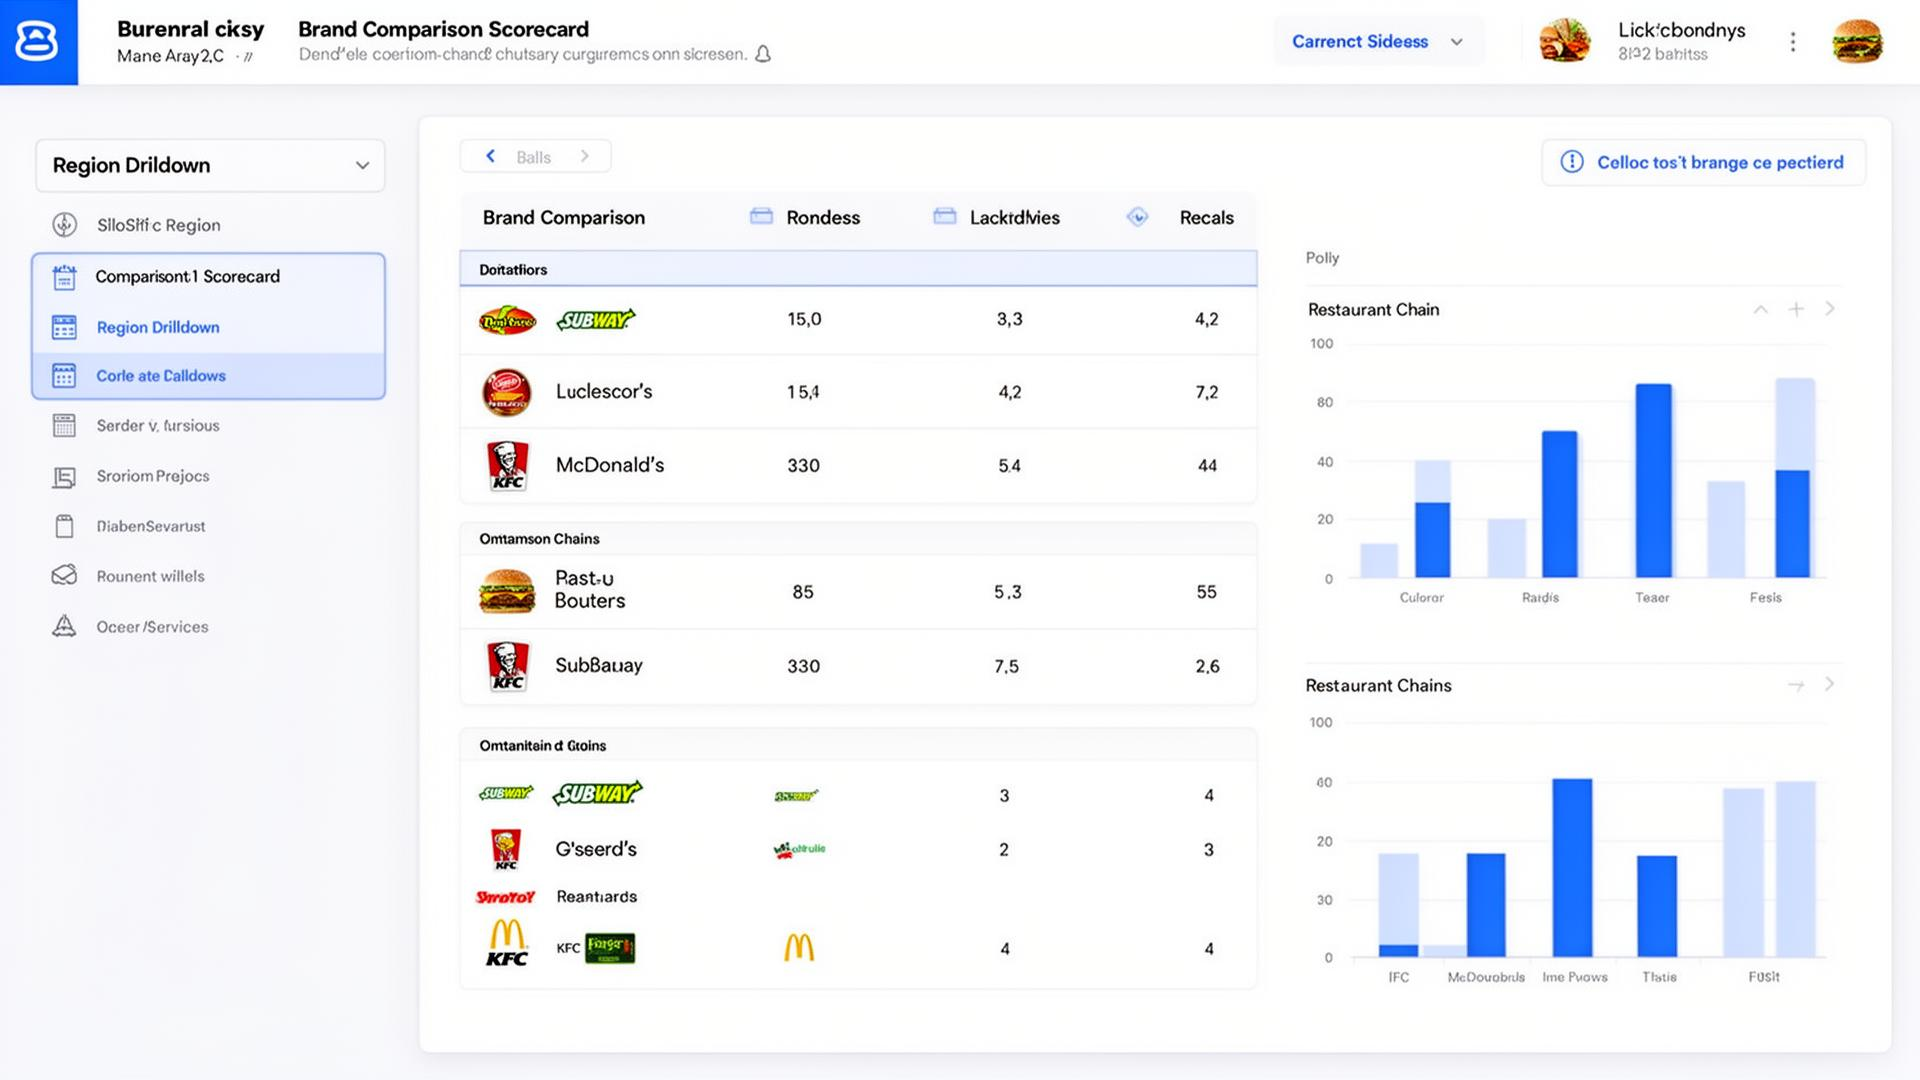
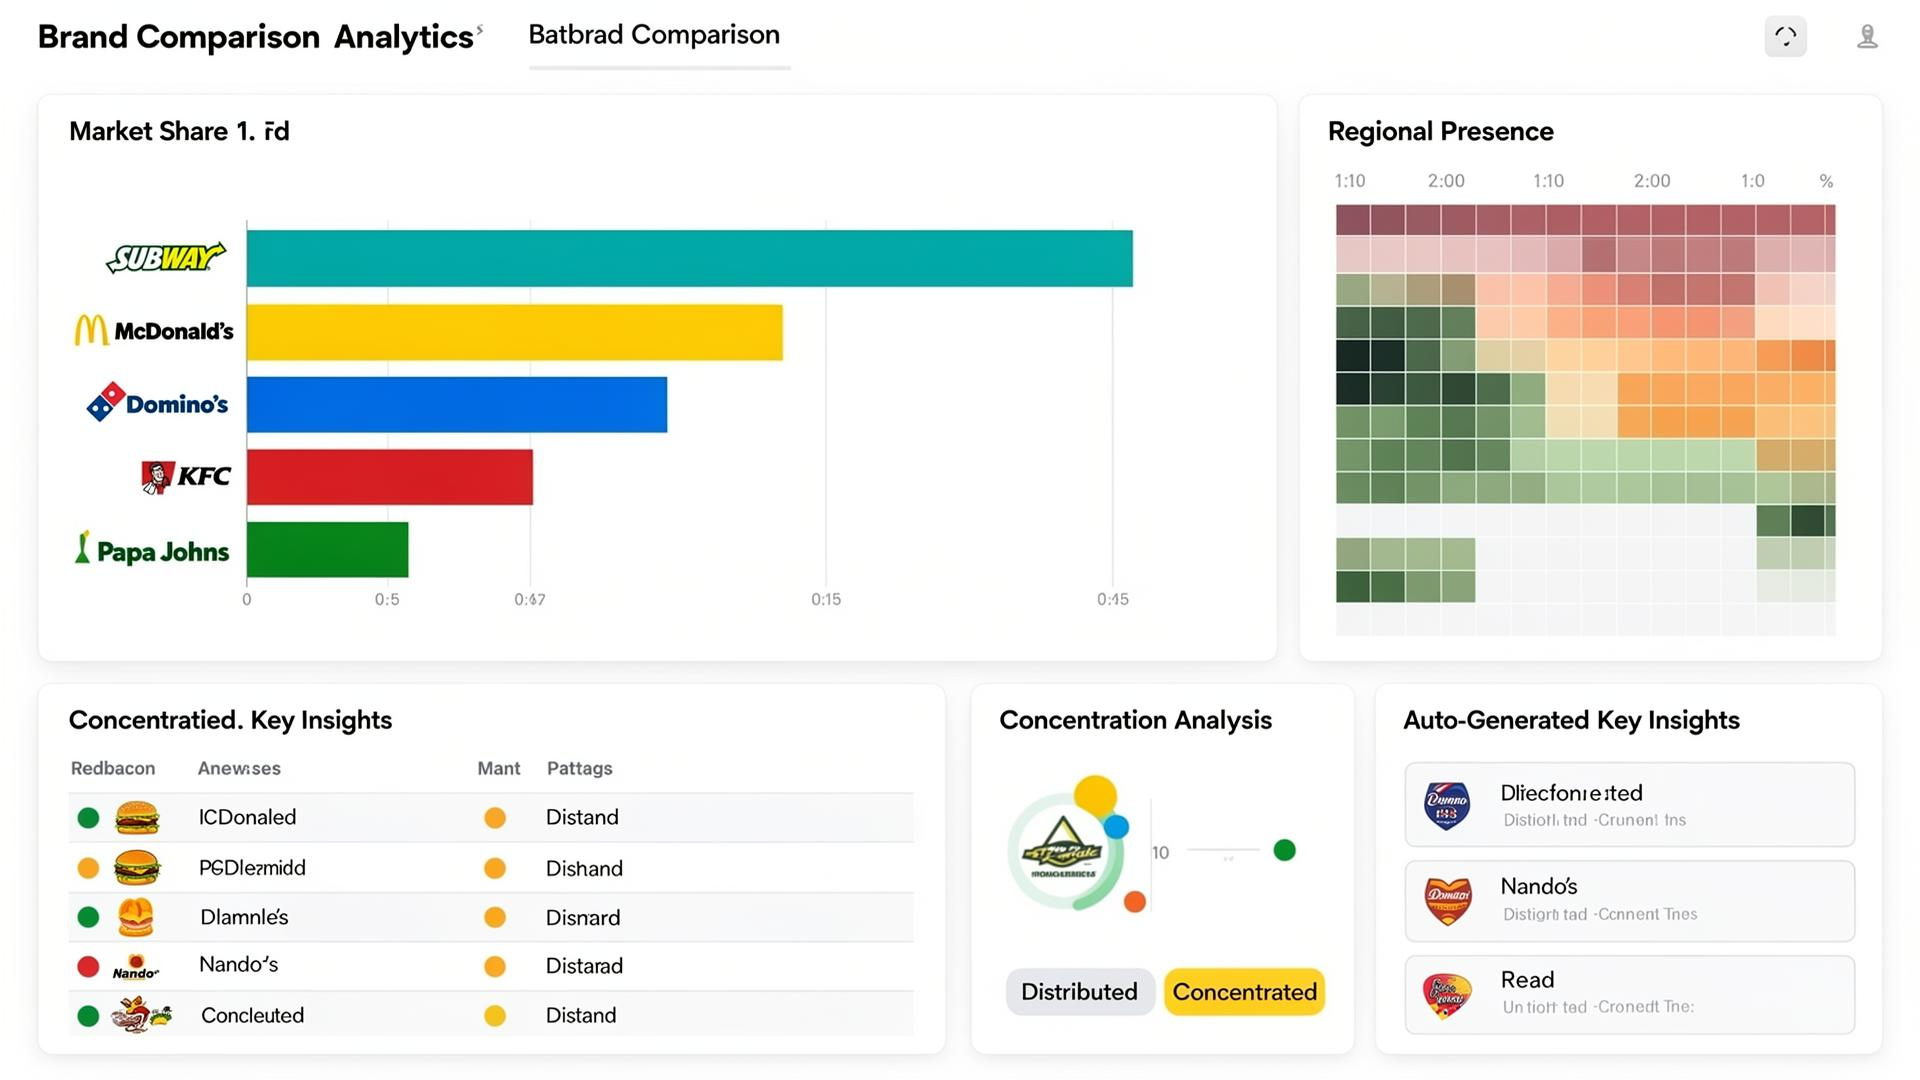
Changes

diff --git a/public/prototype/app.js b/public/prototype/app.js
@@ -735,26 +735,114 @@ function flyToCityOrData(cityName, region) {
 
 function refreshCompareTab() {
   const brands = state.metrics.brands;
-  const rows = brands.map(b => {
+  const selected = selectedArr();
+  const totalAll = selected.reduce((s, b) => s + (state.metrics.brand_totals[b] || 0), 0);
+
+  const rows = selected.map(b => {
     const total = state.metrics.brand_totals[b] || 0;
     const london = (state.metrics.region_brand_counts["London"] || {})[b] || 0;
-    const shares = state.metrics.regions.map(r => {
+    const regionShares = state.metrics.regions.map(r => {
       const c = (state.metrics.region_brand_counts[r] || {})[b] || 0;
-      return { region: r.replace(" (England)", ""), count: c, share: total ? c / total : 0 };
+      return { region: r, label: r.replace(" (England)", ""), count: c, share: total ? c / total : 0 };
     }).sort((a, b) => b.count - a.count);
-    return { brand: b, total, londonShare: total ? london / total : 0, top1: shares[0] };
+    // Concentration: how much of their total is in top 3 regions
+    const top3Share = regionShares.slice(0, 3).reduce((s, r) => s + r.count, 0) / (total || 1);
+    const regionCounts = {};
+    state.metrics.regions.forEach(r => { regionCounts[r] = (state.metrics.region_brand_counts[r] || {})[b] || 0; });
+    return { brand: b, total, share: totalAll ? total / totalAll : 0, londonShare: total ? london / total : 0, top1: regionShares[0], top3Share, regionCounts, regionShares };
   }).sort((a, b) => b.total - a.total);
 
+  // ── KPIs ──
+  const leader = rows[0];
+  const smallest = rows[rows.length - 1];
+  document.getElementById("compareKpis").innerHTML = `
+    <div class="rp-kpi-card"><div class="rp-kpi-value">${fmtInt(totalAll)}</div><div class="rp-kpi-label">Total Locations</div></div>
+    <div class="rp-kpi-card"><div class="rp-kpi-value">${selected.length}</div><div class="rp-kpi-label">Brands Compared</div></div>
+    <div class="rp-kpi-card"><div class="rp-kpi-value">${leader ? leader.brand.split("'")[0] : '—'}</div><div class="rp-kpi-label">Market Leader</div></div>
+    <div class="rp-kpi-card"><div class="rp-kpi-value">${leader ? fmtPct(leader.share) : '—'}</div><div class="rp-kpi-label">Leader Share</div></div>
+  `;
+
+  // ── Market Share Bars ──
+  const maxTotal = Math.max(...rows.map(r => r.total));
+  document.getElementById("compareShareBars").innerHTML = rows.map(r => {
+    const pct = maxTotal > 0 ? (r.total / maxTotal * 100) : 0;
+    return `<div class="share-bar-row">
+      <span class="share-bar-label">${r.brand}</span>
+      <div class="share-bar-track">
+        <div class="share-bar-fill" style="width:${pct}%;background:${BRAND_COLORS[r.brand] || '#3B5BFE'}">
+          <span class="share-bar-value">${fmtPct(r.share)}</span>
+        </div>
+      </div>
+      <span class="share-bar-count">${fmtInt(r.total)}</span>
+    </div>`;
+  }).join("");
+
+  // ── Leaderboard Table ──
   document.getElementById("compareTable").innerHTML = `
-    <tr><th>#</th><th>Brand</th><th class="num">Total</th><th class="num">London %</th><th>Top Region</th></tr>
+    <tr><th>#</th><th>Brand</th><th class="num">Total</th><th class="num">Share</th><th class="num">London %</th><th>Strongest</th></tr>
     ${rows.map((r, i) => `<tr>
-      <td style="color:var(--muted)">${i + 1}</td>
+      <td style="color:var(--muted);font-weight:700">${i + 1}</td>
       <td><div class="brand-dot-cell"><span class="brand-dot" style="background:${BRAND_COLORS[r.brand]||'#3B5BFE'};width:8px;height:8px"></span><strong>${r.brand}</strong></div></td>
       <td class="num">${fmtInt(r.total)}</td>
+      <td class="num">${fmtPct(r.share)}</td>
       <td class="num">${fmtPct(r.londonShare)}</td>
-      <td style="font-size:11px;color:var(--muted)">${r.top1.region} (${fmtPct(r.top1.share)})</td>
+      <td style="font-size:11px;color:var(--muted)">${r.top1.label} (${fmtPct(r.top1.share)})</td>
     </tr>`).join("")}
   `;
+
+  // ── Regional Presence Matrix ──
+  const shortRegions = state.metrics.regions.map(r => r.replace(" (England)", "").replace("Yorkshire and The Humber", "Yorks"));
+  const matrixRows = rows.map(r => {
+    const cells = state.metrics.regions.map(reg => {
+      const c = r.regionCounts[reg] || 0;
+      const regTotal = state.metrics.region_totals[reg] || 1;
+      const intensity = c / regTotal; // share in this region
+      const bg = intensity > 0.25 ? 'rgba(67,160,71,0.2)' : intensity > 0.15 ? 'rgba(255,152,0,0.15)' : intensity > 0.05 ? 'rgba(59,91,254,0.1)' : 'transparent';
+      const color = intensity > 0.25 ? '#2E7D32' : intensity > 0.15 ? '#E65100' : 'var(--text)';
+      return `<td><span class="cell-heat" style="background:${bg};color:${color}">${c}</span></td>`;
+    });
+    return `<tr><td><div class="brand-dot-cell"><span class="brand-dot" style="background:${BRAND_COLORS[r.brand]||'#3B5BFE'};width:6px;height:6px"></span>${r.brand}</div></td>${cells.join("")}</tr>`;
+  });
+
+  document.getElementById("compareMatrix").innerHTML = `
+    <table>
+      <tr><th></th>${shortRegions.map(r => `<th>${r}</th>`).join("")}</tr>
+      ${matrixRows.join("")}
+    </table>
+  `;
+
+  // ── Concentration Analysis ──
+  document.getElementById("compareConcentration").innerHTML = `
+    <tr><th>Brand</th><th class="num">Top 3 Regions %</th><th class="num">London Lean</th><th>Profile</th></tr>
+    ${rows.map(r => {
+      const profile = r.top3Share > 0.55 ? 'Concentrated' : r.top3Share > 0.45 ? 'Balanced' : 'Distributed';
+      const profileColor = profile === 'Concentrated' ? '#E53935' : profile === 'Balanced' ? '#FF9800' : '#43A047';
+      return `<tr>
+        <td><div class="brand-dot-cell"><span class="brand-dot" style="background:${BRAND_COLORS[r.brand]||'#3B5BFE'};width:8px;height:8px"></span>${r.brand}</div></td>
+        <td class="num">${fmtPct(r.top3Share)}</td>
+        <td class="num">${r.londonShare > 0.2 ? '🔥 High' : r.londonShare > 0.12 ? '⚡ Medium' : '✅ Low'}</td>
+        <td><span style="color:${profileColor};font-weight:700;font-size:11px">${profile}</span></td>
+      </tr>`;
+    }).join("")}
+  `;
+
+  // ── Key Insights (auto-generated) ──
+  const insights = [];
+  if (leader) {
+    insights.push(`<div class="insight-card"><span class="insight-icon">👑</span><strong>${leader.brand}</strong> leads with ${fmtInt(leader.total)} locations (${fmtPct(leader.share)} market share), strongest in ${leader.top1.label}.</div>`);
+  }
+  if (smallest && rows.length > 1) {
+    insights.push(`<div class="insight-card"><span class="insight-icon">📉</span><strong>${smallest.brand}</strong> has the smallest footprint at ${fmtInt(smallest.total)} locations — potential growth opportunity or niche strategy.</div>`);
+  }
+  const highLondon = rows.filter(r => r.londonShare > 0.18);
+  if (highLondon.length > 0) {
+    insights.push(`<div class="insight-card"><span class="insight-icon">🏙</span>${highLondon.map(r => `<strong>${r.brand}</strong>`).join(" and ")} ${highLondon.length > 1 ? 'are' : 'is'} heavily concentrated in London (${highLondon.map(r => fmtPct(r.londonShare)).join(", ")}), leaving regional markets open.</div>`);
+  }
+  const distributed = rows.filter(r => r.top3Share < 0.45);
+  if (distributed.length > 0) {
+    insights.push(`<div class="insight-card"><span class="insight-icon">🌍</span>${distributed.map(r => `<strong>${r.brand}</strong>`).join(" and ")} ${distributed.length > 1 ? 'have' : 'has'} the most evenly distributed presence across all regions.</div>`);
+  }
+  document.getElementById("compareInsights").innerHTML = insights.join("");
 }
 
 function refreshExportInfo() {

diff --git a/src/components/FeaturesSection.tsx b/src/components/FeaturesSection.tsx
@@ -1,8 +1,9 @@
 import { motion } from "framer-motion";
-import { Map, BarChart3, Download } from "lucide-react";
+import { Map, BarChart3, Flame, Lightbulb } from "lucide-react";
 import dashboardPreview from "@/assets/dashboard-preview.jpg";
+import heatmapPreview from "@/assets/heatmap-preview.jpg";
 import brandComparePreview from "@/assets/brand-compare-preview.jpg";
-import exportPreview from "@/assets/export-preview.jpg";
+import guesstimatePreview from "@/assets/export-preview.jpg";
 
 const features = [
   {
@@ -10,27 +11,36 @@ const features = [
     title: "Coverage Map",
     subtitle: "Region & city presence for your competitor set",
     description:
-      "Interactive choropleth maps show density by region. Click any area to drill down into brand mix, top cities, and concentration signals.",
+      "Interactive honeycomb density maps show where brands cluster. Click any region to drill into brand mix, top cities, and store-level dots — zoom in and the hexagons adapt in real time.",
     image: dashboardPreview,
-    alt: "Country Explorer coverage map with region drilldown",
+    alt: "Country Explorer coverage map with honeycomb density grid over England",
+  },
+  {
+    icon: Flame,
+    title: "Competitive Heatmap",
+    subtitle: "See who's winning in every neighbourhood",
+    description:
+      "Toggle heatmap mode to compare your brand against all competitors or a specific rival. Red means they dominate, green means you lead — instantly spot market gaps across the entire country.",
+    image: heatmapPreview,
+    alt: "Competitive heatmap showing McDonald's vs competitors with traffic-light coloring",
   },
   {
     icon: BarChart3,
-    title: "Brand Benchmarking",
-    subtitle: "Compare brands with a consistent scorecard",
+    title: "Brand Comparison",
+    subtitle: "Head-to-head analytics across every dimension",
     description:
-      "Head-to-head comparison of total locations, market share in key cities, top regions, and concentration patterns across your competitive set.",
+      "Market share bars, regional presence matrix, concentration analysis, and auto-generated insights. See which brands are distributed vs concentrated, who dominates London, and where the whitespace is.",
     image: brandComparePreview,
-    alt: "Brand comparison scorecard with analytics",
+    alt: "Brand comparison dashboard with market share bars and regional heatgrid",
   },
   {
-    icon: Download,
-    title: "Actionable Exports",
-    subtitle: "CSV, GeoJSON, and client-ready reports",
+    icon: Lightbulb,
+    title: "Guesstimate Engine",
+    subtitle: "Data-driven expansion advice, powered by real numbers",
     description:
-      "Export filtered locations for your BI tools. Generate shortlists of target cities with low competitor density — ready for your next board meeting.",
-    image: exportPreview,
-    alt: "Data export interface with CSV and GeoJSON options",
+      "Turn on Guesstimate for instant market intelligence: saturation scores, whitespace opportunities scored by city, strongest & weakest regions with gap analysis, and actionable expansion advice — all derived from actual store data.",
+    image: guesstimatePreview,
+    alt: "Guesstimate market insights panel with whitespace opportunities and growth targets",
   },
 ];
 

diff --git a/public/prototype/styles.css b/public/prototype/styles.css
@@ -169,6 +169,27 @@ body { font-family: var(--sans); background: var(--bg); color: var(--text); -web
 .export-info-label { color: var(--muted); font-weight: 500; }
 .rp-footnote { margin-top: 14px; font-size: 11px; color: var(--muted); }
 
+/* ── Compare tab ── */
+.share-bars { display: flex; flex-direction: column; gap: 6px; }
+.share-bar-row { display: flex; align-items: center; gap: 8px; }
+.share-bar-label { font-size: 11px; font-weight: 600; color: var(--text); min-width: 70px; white-space: nowrap; }
+.share-bar-track { flex: 1; height: 20px; background: var(--panel2); border-radius: 4px; overflow: hidden; position: relative; }
+.share-bar-fill { height: 100%; border-radius: 4px; transition: width 0.4s ease; display: flex; align-items: center; justify-content: flex-end; padding-right: 6px; }
+.share-bar-value { font-size: 10px; font-weight: 700; color: #fff; text-shadow: 0 1px 2px rgba(0,0,0,0.3); }
+.share-bar-count { font-size: 11px; color: var(--muted); font-weight: 600; min-width: 40px; text-align: right; font-variant-numeric: tabular-nums; }
+
+.compare-matrix { overflow-x: auto; }
+.compare-matrix table { width: 100%; border-collapse: collapse; font-size: 11px; }
+.compare-matrix th, .compare-matrix td { padding: 5px 4px; text-align: center; border-bottom: 1px solid var(--border); }
+.compare-matrix th { color: var(--muted); font-weight: 600; font-size: 9px; text-transform: uppercase; letter-spacing: 0.3px; }
+.compare-matrix th:first-child, .compare-matrix td:first-child { text-align: left; font-weight: 600; }
+.compare-matrix .cell-heat { border-radius: 3px; padding: 3px 5px; font-weight: 700; font-size: 10px; display: inline-block; min-width: 28px; }
+
+.compare-insights { display: flex; flex-direction: column; gap: 6px; }
+.insight-card { background: var(--panel2); border: 1px solid var(--border); border-radius: 8px; padding: 10px 12px; font-size: 12px; line-height: 1.5; color: var(--text); }
+.insight-card strong { color: var(--accent); }
+.insight-icon { margin-right: 6px; }
+
 /* ── Leaflet ── */
 .leaflet-container { font-family: var(--sans) !important; }
 .leaflet-popup-content-wrapper { border-radius: 10px !important; box-shadow: var(--shadow-lg) !important; border: 1px solid var(--border) !important; }

diff --git a/public/prototype/index.html b/public/prototype/index.html
@@ -253,8 +253,40 @@
       <!-- ====== COMPARE ====== -->
       <div class="rp-content hidden" id="compareContent">
         <div class="rp-section">
-          <p class="rp-desc">Compare brand footprints — total locations, London concentration, and regional strengths.</p>
-          <table class="table" id="compareTable"></table>
+          <p class="rp-desc">Head-to-head brand analysis with market share, regional presence, and competitive positioning.</p>
+
+          <!-- Compare KPIs -->
+          <div class="rp-kpi-grid" id="compareKpis" style="margin-bottom:14px"></div>
+
+          <!-- Market Share Bars -->
+          <div class="rp-table-section">
+            <div class="rp-table-title">📊 Market Share</div>
+            <div id="compareShareBars" class="share-bars"></div>
+          </div>
+
+          <!-- Leaderboard -->
+          <div class="rp-table-section">
+            <div class="rp-table-title">🏆 Brand Leaderboard</div>
+            <table class="table" id="compareTable"></table>
+          </div>
+
+          <!-- Regional Heatmap Grid -->
+          <div class="rp-table-section">
+            <div class="rp-table-title">🗺 Regional Presence Matrix</div>
+            <div id="compareMatrix" class="compare-matrix"></div>
+          </div>
+
+          <!-- Concentration Analysis -->
+          <div class="rp-table-section">
+            <div class="rp-table-title">🎯 Concentration Analysis</div>
+            <table class="table" id="compareConcentration"></table>
+          </div>
+
+          <!-- Key Insights -->
+          <div class="rp-table-section">
+            <div class="rp-table-title">💡 Key Insights</div>
+            <div id="compareInsights" class="compare-insights"></div>
+          </div>
         </div>
       </div>
 
